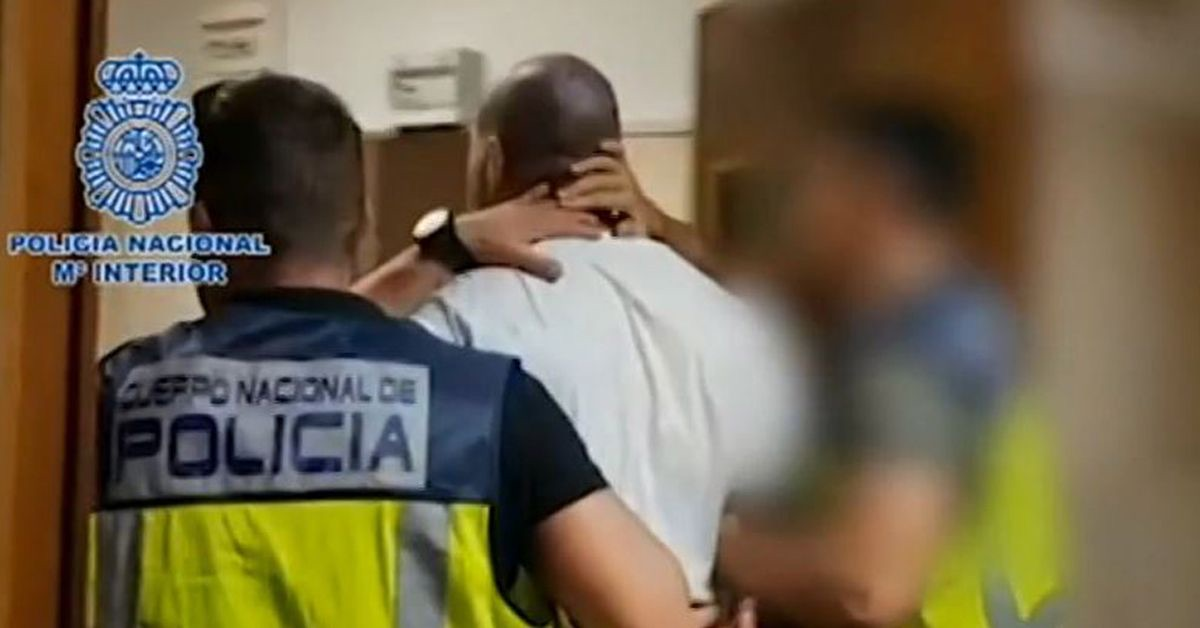
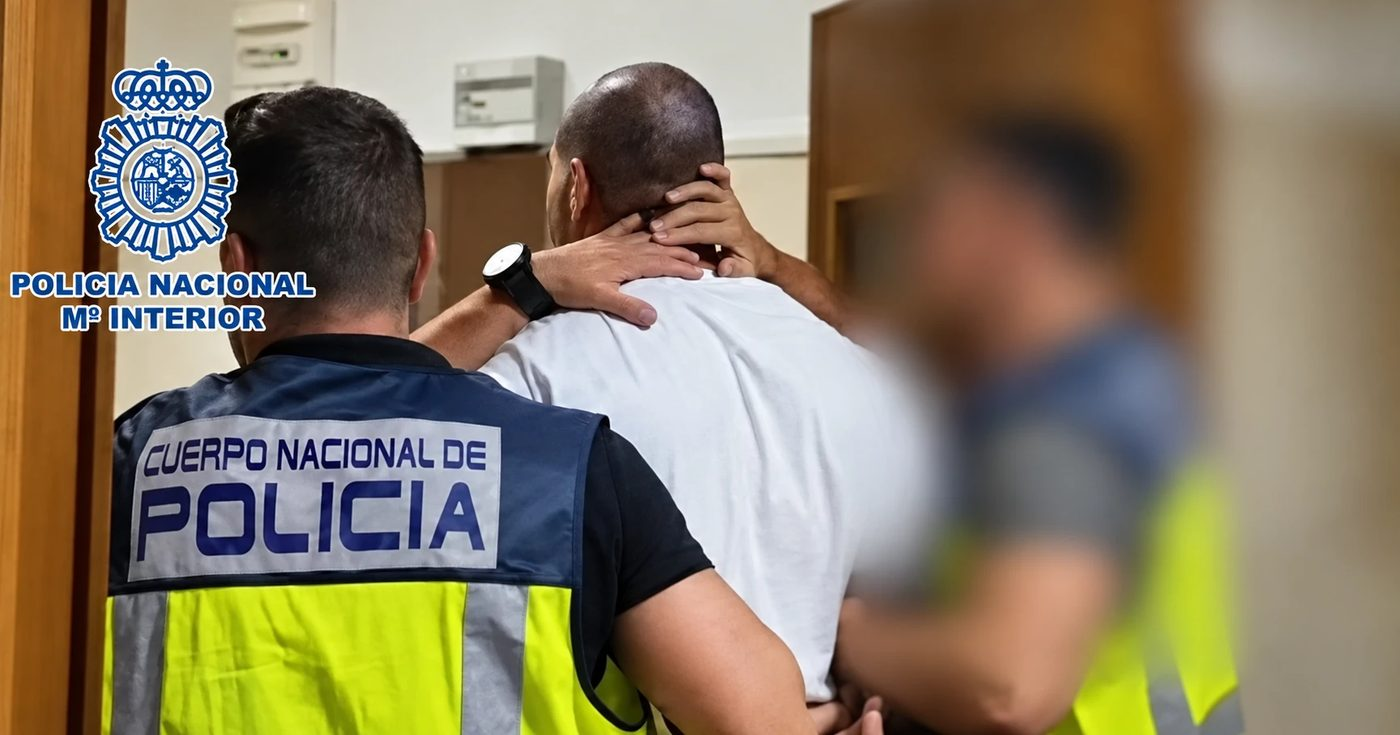
content: Alfonso portrait on La Firma, sharper photo for Finland news card

diff --git a/apps/web/src/pages/AboutPage.jsx b/apps/web/src/pages/AboutPage.jsx
@@ -104,12 +104,23 @@ function AboutPage() {
               <div className="grid grid-cols-1 sm:grid-cols-3 gap-px bg-border border border-border">
                 {Array.isArray(team) && team.map((member) => (
                   <div key={member.name} className="bg-background p-8 flex flex-col gap-8">
-                    <div
-                      aria-hidden="true"
-                      className="h-16 w-16 border border-border flex items-center justify-center font-serif text-xl tracking-wide text-foreground"
-                    >
-                      {initials(member.name)}
-                    </div>
+                    {member.photo ? (
+                      <img
+                        src={member.photo}
+                        alt={member.name}
+                        width="800"
+                        height="800"
+                        decoding="async"
+                        className="aspect-square w-full object-cover"
+                      />
+                    ) : (
+                      <div
+                        aria-hidden="true"
+                        className="h-16 w-16 border border-border flex items-center justify-center font-serif text-xl tracking-wide text-foreground"
+                      >
+                        {initials(member.name)}
+                      </div>
+                    )}
                     <div>
                       <h3 className="font-serif text-xl text-foreground leading-snug">
                         {member.name}

diff --git a/apps/web/src/lib/translations.js b/apps/web/src/lib/translations.js
@@ -112,7 +112,7 @@ export const translations = {
       team: {
         title: 'Equipo',
         members: [
-          { name: 'Alfonso Sell Trujillo', role: 'Socio Fundador', bio: 'Amplia experiencia ante tribunales del jurado y en la defensa de delitos graves.' },
+          { name: 'Alfonso Sell Trujillo', photo: '/team/alfonso-sell.jpg', role: 'Socio Fundador', bio: 'Amplia experiencia ante tribunales del jurado y en la defensa de delitos graves.' },
           { name: 'Pablo Cabo Medina', role: 'Abogado Europeo', bio: 'Experiencia en extradiciones y asuntos internacionales.' },
           { name: 'Oscar Menéndez González', role: 'Abogado' }
         ]
@@ -284,7 +284,7 @@ export const translations = {
       team: {
         title: 'Team',
         members: [
-          { name: 'Alfonso Sell Trujillo', role: 'Founding Partner', bio: 'Extensive experience before jury courts and in the defense of serious crimes.' },
+          { name: 'Alfonso Sell Trujillo', photo: '/team/alfonso-sell.jpg', role: 'Founding Partner', bio: 'Extensive experience before jury courts and in the defense of serious crimes.' },
           { name: 'Pablo Cabo Medina', role: 'European Lawyer', bio: 'Experience in extradition and international matters.' },
           { name: 'Oscar Menéndez González', role: 'Lawyer' }
         ]
